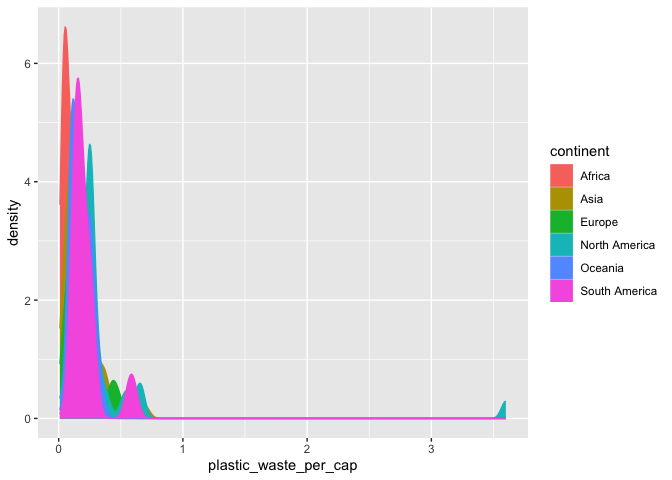
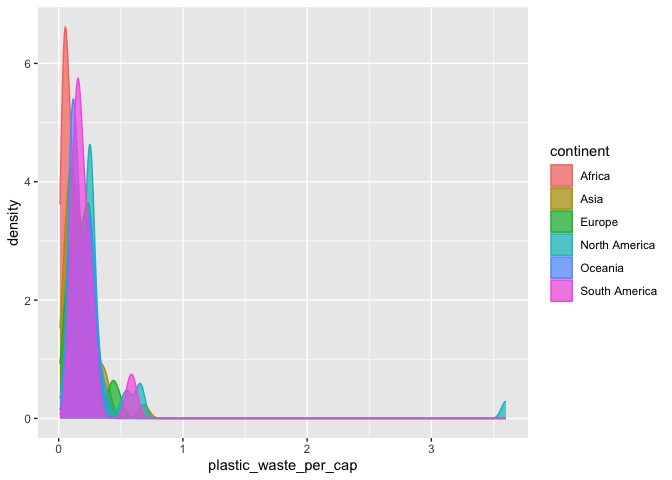
Updated Q1 and started Q2
Added in description of histograms and changed alpha for Q2

Changed region(s): [[0.0625, 0.0938, 0.2188, 0.875], [0.8125, 0.3438, 0.875, 0.625], [0.7188, 0.8438, 0.75, 0.875]]

diff --git a/lab-02.md b/lab-02.md
@@ -18,13 +18,14 @@ plastic_waste <- read.csv("data/plastic-waste.csv")
 ### Exercise 1
 
 First plots are histograms of the distribution of plastic waste per
-capita faceted by continent
+capita faceted by continent.
 
-Second plot
+Second plot is the same data as a density plot.
 
 ``` r
 ggplot(data = plastic_waste, aes(x = plastic_waste_per_cap)) +
-  geom_histogram(binwidth = 0.2) + facet_wrap(vars(continent))
+  #To make them one graph by color, add in fill = continent after plastice_waste_per_cap
+  geom_histogram(binwidth = 0.2) + facet_wrap(~continent)
 ```
 
     ## Warning: Removed 51 rows containing non-finite outside the scale range
@@ -53,19 +54,35 @@ ggplot(
     fill = continent
   )
 ) +
-  geom_density()
+  geom_density(alpha = 0.7)
 ```
 
     ## Warning: Removed 51 rows containing non-finite outside the scale range
     ## (`stat_density()`).
 
-![](lab-02_files/figure-gfm/plastic-waste-continent-2.png)<!-- -->
+![](lab-02_files/figure-gfm/plastic-waste-continent-2.png)<!-- --> What
+I can tell is that they all look pretty similar in terms of plastic
+waste per capita. North America has a singular outlier which makes the
+graph all look the same.
 
 ### Exercise 2
 
 ``` r
-# insert code here
+ggplot(
+  data = plastic_waste,
+  mapping = aes(
+    x = plastic_waste_per_cap,
+    color = continent,
+    fill = continent
+  )
+) +
+  geom_density(alpha = 0.1)
 ```
+
+    ## Warning: Removed 51 rows containing non-finite outside the scale range
+    ## (`stat_density()`).
+
+![](lab-02_files/figure-gfm/plastic-waste-density-1.png)<!-- -->
 
 ### Exercise 3
 
